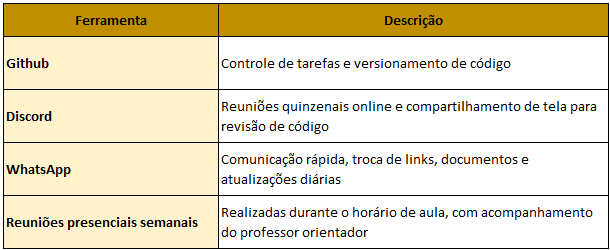
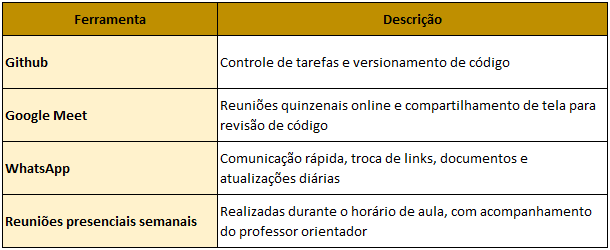
Continuação da documentação

Changed region(s): [[0.0, 0.0, 1.0, 1.0], [0.623, 0.056, 0.7475, 0.112], [0.1246, 0.056, 0.2492, 0.112]]

diff --git a/LaTex/Capítulos/Desenvolvimento_do_Projeto/Testes e manutenibilidade.tex b/LaTex/Capítulos/Desenvolvimento_do_Projeto/Testes e manutenibilidade.tex
@@ -1,48 +1,45 @@
 \section{Testes e Manutenibilidade}
 
-A etapa de testes é essencial para assegurar a qualidade, confiabilidade e estabilidade do sistema desenvolvido. No caso do sistema \textbf{Tropical Mix}, os testes tiveram como objetivo verificar o funcionamento correto das principais funcionalidades, garantir a integração entre os módulos e validar o desempenho nas operações mais críticas, como o controle de estoque e o registro de vendas.  
-
-Foram aplicadas diferentes abordagens de testes, contemplando os níveis de unidade, integração e interface, de modo a assegurar o bom funcionamento tanto do \textit{back-end} quanto do \textit{front-end}.
+A etapa de testes é planejada para assegurar a qualidade, a estabilidade e a confiabilidade do sistema em todas as suas camadas. O processo será conduzido em ambiente de desenvolvimento controlado, com o objetivo de identificar erros, validar funcionalidades e garantir que o comportamento da aplicação esteja de acordo com os requisitos definidos.
 
 \subsection{Plano de Testes}
 
-O plano de testes foi elaborado com base nas funcionalidades mais relevantes para o negócio, priorizando os módulos de autenticação de usuários, controle de estoque, registro de vendas e geração de relatórios. Cada teste teve como meta validar se o sistema atende aos requisitos especificados e se mantém consistente diante de diferentes condições de uso.  
-
-Os testes foram executados em ambiente controlado, simulando situações reais de uso, como o cadastro de novos produtos, atualização de quantidades em estoque e verificação de relatórios no \textit{dashboard}.
+O plano de testes define os tipos, ferramentas e critérios que serão utilizados para verificar o funcionamento do sistema. Os principais módulos contemplados serão autenticação de usuários, controle de estoque, registro de vendas e geração de relatórios. Cada caso de teste será estruturado a partir de cenários reais de uso, assegurando que o sistema responda corretamente a diferentes condições e entradas de dados.
 
 \subsection{Testes Funcionais}
 
-Os testes funcionais tiveram como finalidade verificar se cada funcionalidade do sistema executa corretamente as ações esperadas, de acordo com os requisitos definidos. Essa categoria de testes foi essencial para garantir a coerência entre as regras de negócio e o comportamento do sistema durante a execução.
+Os testes funcionais têm como propósito validar se cada funcionalidade implementada cumpre as regras de negócio e os requisitos definidos. Essa categoria incluirá a verificação de rotas da API, formulários de entrada de dados e respostas esperadas na interface, garantindo que o sistema opere de forma coerente entre as camadas.
 
 \subsubsection{Testes Unitários}
 
-Os testes unitários foram aplicados principalmente na camada de \textit{back-end}, utilizando a biblioteca \textbf{Pytest}. O objetivo foi validar individualmente funções e rotas do Flask, como o cadastro de produtos, autenticação de usuários e atualização de estoque. Dessa forma, garantiu-se que cada componente da lógica de negócio operasse corretamente de maneira isolada.
+Os testes unitários serão aplicados à camada de back-end, utilizando a biblioteca \textbf{Pytest} para o framework Flask. Eles validarão funções individuais, como cadastro e atualização de produtos, autenticação e cálculos de estoque. O foco será garantir que cada parte do código funcione de forma independente e confiável.
 
 \subsubsection{Testes de Integração}
 
-Os testes de integração buscaram validar a comunicação entre o \textit{front-end}, o \textit{back-end} e o banco de dados. Foram realizados cenários de teste envolvendo o envio de requisições via \textbf{Axios} no React e o processamento dessas informações no Flask, com persistência dos dados no MySQL. Essa etapa assegurou que o fluxo de dados entre as camadas fosse contínuo e sem falhas.
+Os testes de integração validarão o fluxo completo entre front-end, back-end e banco de dados. Serão simuladas requisições enviadas pelo React via Axios e processadas pelo Flask, com persistência no MySQL. Essa etapa confirmará a correta comunicação entre as camadas e o retorno de dados consistentes.
 
 \subsubsection{Testes End-to-End}
 
-Os testes de ponta a ponta (E2E) foram utilizados para simular o comportamento real do usuário no sistema, garantindo que as principais funcionalidades pudessem ser executadas de forma completa, desde o login até o registro de uma venda e atualização do estoque. Ferramentas como \textbf{Selenium} ou \textbf{Cypress} podem ser utilizadas para automatizar essa etapa, permitindo a verificação de fluxos completos de navegação no sistema.
+Os testes end-to-end (\textit{E2E}) simularão a experiência completa do usuário no sistema, desde o login até o registro de uma venda e a atualização automática do estoque. Ferramentas como \textbf{Cypress} ou \textbf{Selenium} poderão ser utilizadas para automatizar esses fluxos, garantindo que as principais funcionalidades se comportem conforme o esperado em ambiente de execução real.
 
 \subsection{Testes Não Funcionais}
 
-Além dos testes funcionais, foram realizados testes não funcionais voltados à verificação do desempenho e da responsividade do sistema, assegurando que a aplicação mantenha um bom tempo de resposta e estabilidade sob diferentes condições de uso.
+Os testes não funcionais avaliarão aspectos de desempenho, segurança e confiabilidade da aplicação. Essa categoria inclui os seguintes subtipos:
 
 \subsubsection{Testes de Performance}
 
-Os testes de performance tiveram como objetivo avaliar o tempo médio de resposta do sistema em operações como login, consulta de estoque e geração de relatórios. Com isso, buscou-se garantir que as requisições fossem processadas em até 3 segundos, mesmo em momentos de maior carga.
+Medirão o tempo de resposta das operações críticas, como consultas de estoque e geração de relatórios. O objetivo é garantir que as requisições sejam processadas em até 3 segundos, mesmo sob múltiplos acessos simultâneos.
 
 \subsubsection{Testes de Carga}
 
-Os testes de carga foram aplicados para verificar o comportamento do sistema diante de múltiplos acessos simultâneos, simulando o uso por diversos funcionários da loja. Essa verificação foi essencial para assegurar a estabilidade do servidor e o correto gerenciamento das conexões com o banco de dados.
+Os testes de carga simularão múltiplos acessos simultâneos à aplicação, avaliando o comportamento do servidor e do banco de dados sob picos de utilização. Essa análise ajudará a identificar possíveis gargalos e a otimizar o uso de recursos.
 
 \subsection{Logs e Manutenibilidade}
 
-O sistema conta com um módulo de \textbf{logs} integrado ao \textit{back-end}, que registra automaticamente as operações críticas, como cadastros, exclusões e alterações de produtos ou usuários. Esses registros são fundamentais para auditoria e para o acompanhamento de possíveis falhas.  
+O sistema contará com logs automáticos integrados ao back-end, registrando operações críticas como cadastros, exclusões e alterações de dados. Esses registros serão essenciais para auditoria, depuração e rastreamento de falhas. 
 
-Quanto à manutenibilidade, o código foi estruturado seguindo padrões de boas práticas e convenções da comunidade Python e React, permitindo fácil compreensão e expansão futura. A modularização do código e o uso de documentação interna garantem que novas funcionalidades possam ser adicionadas sem comprometer o desempenho ou a integridade do sistema.
+A manutenibilidade será garantida pela adoção de código modular, documentação interna e versionamento contínuo no GitHub. Essas práticas permitirão a expansão do sistema e a correção de falhas de forma ágil e organizada.
+
 
 \subsection{Code Convention}
 

diff --git a/LaTex/Capítulos/Desenvolvimento_do_Projeto/Tecnologias.tex b/LaTex/Capítulos/Desenvolvimento_do_Projeto/Tecnologias.tex
@@ -41,7 +41,20 @@ Além disso, a estrutura relacional do MySQL possibilita consultas otimizadas pa
 
 \subsection{Infraestrutura}
 
-TEREMOS NÉ?
+A infraestrutura planejada para o sistema Tropical Mix visa garantir estabilidade e segurança ao ambiente de execução da aplicação. Durante o desenvolvimento, a aplicação será executada em ambiente local pelos integrantes da equipe, utilizando servidores Flask para o back-end e o serviço de hospedagem local do React para o front-end.
+
+Para a fase de implantação, considera-se a utilização de um serviço de computação em nuvem, como a \textbf{Amazon Web Services (AWS)} ou o \textbf{Render}, que oferecem planos gratuitos e compatíveis com aplicações em Flask e React. O banco de dados MySQL poderá ser hospedado em serviços como o \textbf{Railway} ou o \textbf{PlanetScale}, garantindo persistência remota e acessibilidade para todos os desenvolvedores.
+
+A arquitetura proposta segue o modelo cliente-servidor, em que o front-end (cliente) se comunica com o back-end (servidor Flask) via API REST, como mostra a Figura~\ref{fig:cliente-servidor}. O ambiente de nuvem permitirá a configuração de endpoints públicos e o gerenciamento de logs, autenticação e escalabilidade sob demanda.
+
+\begin{figure}[H]
+  \centering
+  \includegraphics[width=0.9\textwidth]{LaTex/Capítulos/img/desenvolvimento/cliente-servidor.png}
+  \caption{Arquitetura Cliente-Servidor.}
+  \fonte{Adaptado de Sampaio, G. \textit{Introdução à Arquitetura Cliente-Servidor}. Medium, 2021. Disponível em: \url{https://medium.com/@kaisergui258/introdu%C3%A7%C3%A3o-a-arquitetura-cliente-servidor-dfae4c0218bd}. Acesso em: 27 out. 2025.}
+  \label{fig:cliente-servidor}
+\end{figure}
+
 
 
 \subsection{Ferramentas de Apoio}

diff --git a/LaTex/Capítulos/Desenvolvimento_do_Projeto/Arquitetura.tex b/LaTex/Capítulos/Desenvolvimento_do_Projeto/Arquitetura.tex
@@ -14,14 +14,24 @@ Além disso, a comunicação entre o \textit{front-end} e o \textit{back-end} é
 
 \subsection{Diagrama da Arquitetura}
 
-A Figura~\ref{fig:arquitetura} apresenta o diagrama geral da arquitetura do sistema, ilustrando a interação entre as camadas e os principais componentes que compõem a aplicação web.
+A Figura~\ref{fig:arquitetura} apresenta o diagrama de implantação do sistema, ilustrando a interação entre as camadas e os principais componentes que compõem a aplicação web.
 
 \begin{figure}[H]
     \centering
     \includegraphics[width=0.9\textwidth]{LaTex/Capítulos/img/Desenvolvimento do Projeto/Arquitetura/arquitetura.png}
-    \caption{Arquitetura da Aplicação}
+    \caption{Diagrama de Implantação}
     \fonte{Elaborado pelos autores.}
     \label{fig:arquitetura}
+\end{figure}
+
+Opcionalmente, a Figura~\ref{fig:componentes} apresenta o diagrama de componentes, que detalha a estrutura lógica do sistema e as dependências entre os módulos internos.
+
+\begin{figure}[H]
+  \centering
+  \includegraphics[width=0.9\textwidth]{LaTex/Capítulos/img/Desenvolvimento do Projeto/Arquitetura/Diagrama_componentes.png}
+  \caption{Diagrama de Componentes.}
+  \fonte{Elaborado pelos autores.}
+  \label{fig:componentes}
 \end{figure}
 
 

diff --git a/LaTex/Capítulos/DESENVOLVIMENTO DO PROJETO.tex b/LaTex/Capítulos/DESENVOLVIMENTO DO PROJETO.tex
@@ -1,4 +1,6 @@
 \chapter{DESENVOLVIMENTO DO PROJETO}
+Esta seção descreve o processo de desenvolvimento do sistema web proposto para a loja \textbf{Tropical Mix}, abordando seu escopo, arquitetura, tecnologias e práticas de testes adotadas. O objetivo é apresentar de forma detalhada as etapas que compõem a construção da aplicação, desde a definição dos requisitos e regras de negócio até a validação das funcionalidades e os critérios de qualidade do sistema. A seguir, são descritos os principais componentes técnicos e metodológicos que sustentam o desenvolvimento do projeto.
+
 %\section{Escopo do Projeto}
 %\subsection{Regras de Negócio}
 %\subsection{Requisitos Funcionais}
@@ -6,10 +8,6 @@
 %
 \input{LaTex/Capítulos/Desenvolvimento_do_Projeto/Escopo do Projeto}
 
-
-%\section{Histórias de Usuário}
-%\subsection{Descrição das Histórias}
-\input{LaTex/Capítulos/Desenvolvimento_do_Projeto/Histórias de Usuário}
 
 %\section{Arquitetura} % FEITO
 %\subsection{Definições da Arquitetura} % FEITO

diff --git a/LaTex/Capítulos/GESTÃO DO PROJETO.tex b/LaTex/Capítulos/GESTÃO DO PROJETO.tex
@@ -10,6 +10,7 @@ A equipe é composta por cinco integrantes, divididos de acordo com suas habilid
   \centering
   \includegraphics[width=0.9\textwidth]{LaTex/Capítulos/img/Gestão/tabela_integrantes.png}
   \caption{Tabela de Integrantes do Projeto.}
+  \fonte{Elaborado pelos autores.}
   \label{fig:integrantes}
 \end{figure}
 
@@ -23,6 +24,7 @@ As entregas foram divididas em marcos principais:
   \centering
   \includegraphics[width=0.9\textwidth]{LaTex/Capítulos/img/Gestão/tabela_marcos.png}
   \caption{Tabela de Marcos do Projeto.}
+  \fonte{Elaborado pelos autores.}
   \label{fig:marcos}
 \end{figure}
 
@@ -34,6 +36,7 @@ O desenvolvimento foi organizado em ciclos curtos de trabalho (\textit{sprints})
   \centering
   \includegraphics[width=0.9\textwidth]{LaTex/Capítulos/img/Gestão/tabela_sprints.png}
   \caption{Tabela de Sprints do Projeto.}
+  \fonte{Elaborado pelos autores.}
   \label{fig:sprints}
 \end{figure}
 

diff --git a/LaTex/Capítulos/Desenvolvimento_do_Projeto/Escopo do Projeto.tex b/LaTex/Capítulos/Desenvolvimento_do_Projeto/Escopo do Projeto.tex
@@ -1,4 +1,6 @@
 \section{Escopo do Projeto}
+O escopo do projeto define os limites, objetivos e funcionalidades do sistema desenvolvido. Nesta etapa, são apresentadas as regras de negócio, os requisitos funcionais e não funcionais que orientam o desenvolvimento da aplicação. Esses elementos determinam o que será implementado e asseguram que o sistema atenda de forma precisa às necessidades da loja \textbf{Tropical Mix}.
+
 
 \subsection{Regras de Negócio}
 
